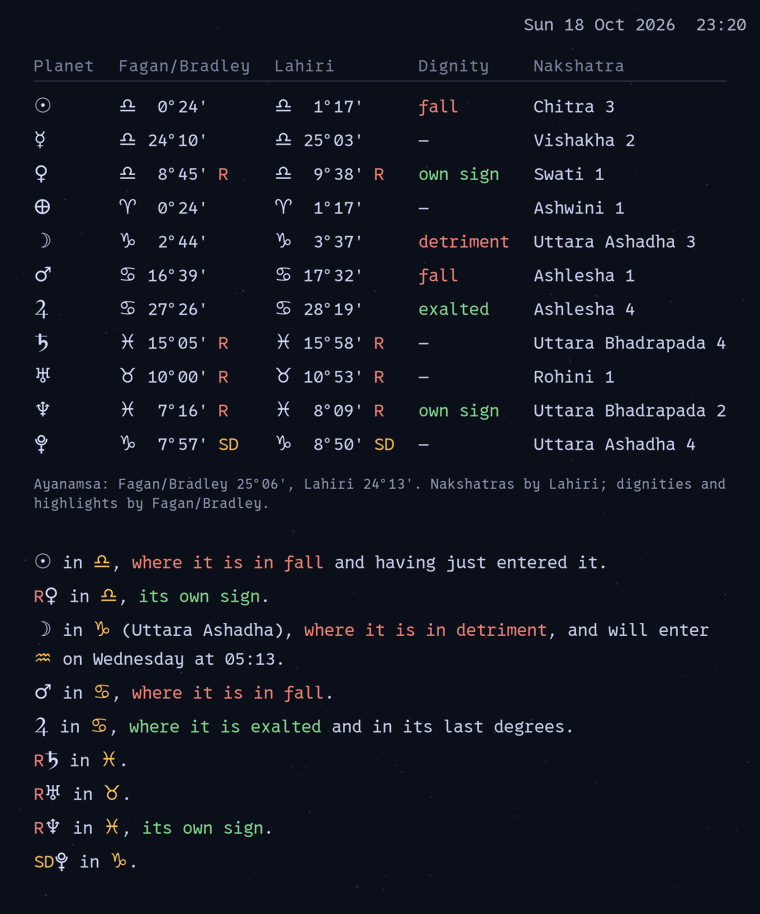
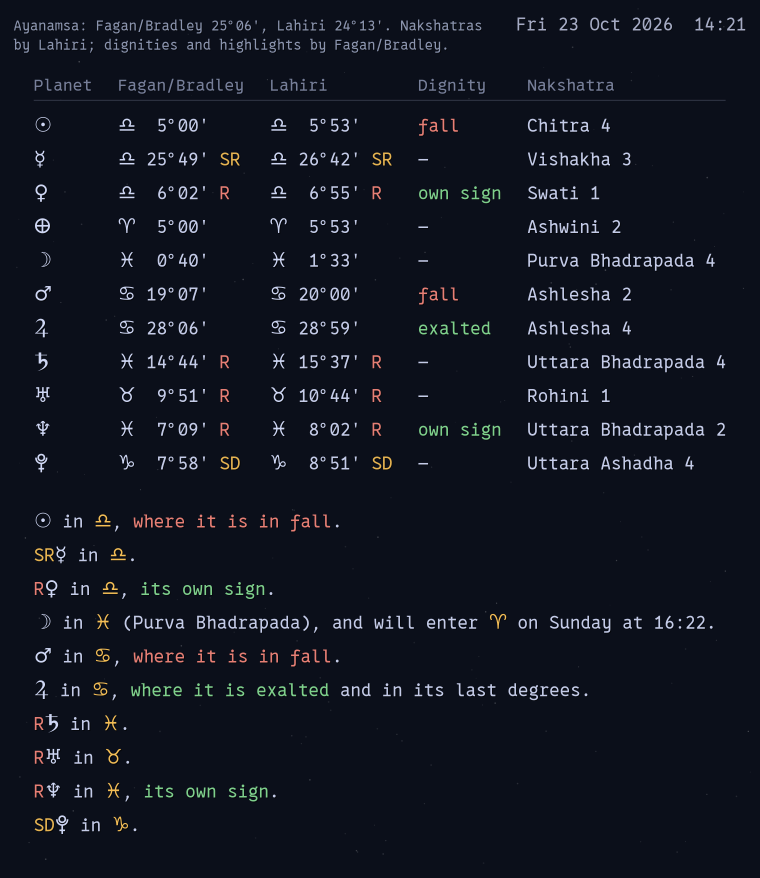
Same text size in the Orrery and the Ephemeris (Orrery 1.7.1, Ephemeris 1.2.1)
Letter widths are no longer rounded to whole pixels. The Ephemeris lays
its text out at design size and scales it up, so the rounding made its
text (e.g. the date) about 4% narrower than the Orrery's. New previews.

diff --git a/orrery/render.py b/orrery/render.py
@@ -424,6 +424,11 @@ def main():
     H = canvas_height(TEXT_K, len(order))
     surf = cairo.ImageSurface(cairo.FORMAT_ARGB32, math.ceil(W * scale), math.ceil(H * scale))
     cr = cairo.Context(surf)
+    # exact (unrounded) letter widths, so text is the same size in the Orrery and
+    # the Ephemeris whatever resolution each lays its text out at
+    fo = cairo.FontOptions()
+    fo.set_hint_metrics(cairo.HINT_METRICS_OFF)
+    cr.set_font_options(fo)
     cr.scale(scale, scale)
 
     # faint stars (fixed pattern, so they do not flicker between frames)

diff --git a/ephemeris/render.py b/ephemeris/render.py
@@ -499,6 +499,11 @@ def main():
     # wrapped summary. Then replay it, scaled, onto the PNG.
     rec = cairo.RecordingSurface(cairo.CONTENT_COLOR_ALPHA, None)
     cr = cairo.Context(rec)
+    # exact (unrounded) letter widths, so text is the same size in the Orrery and
+    # the Ephemeris whatever resolution each lays its text out at
+    fo = cairo.FontOptions()
+    fo.set_hint_metrics(cairo.HINT_METRICS_OFF)
+    cr.set_font_options(fo)
     k = K
     px = 14 * k
     loc = time.localtime(now)
